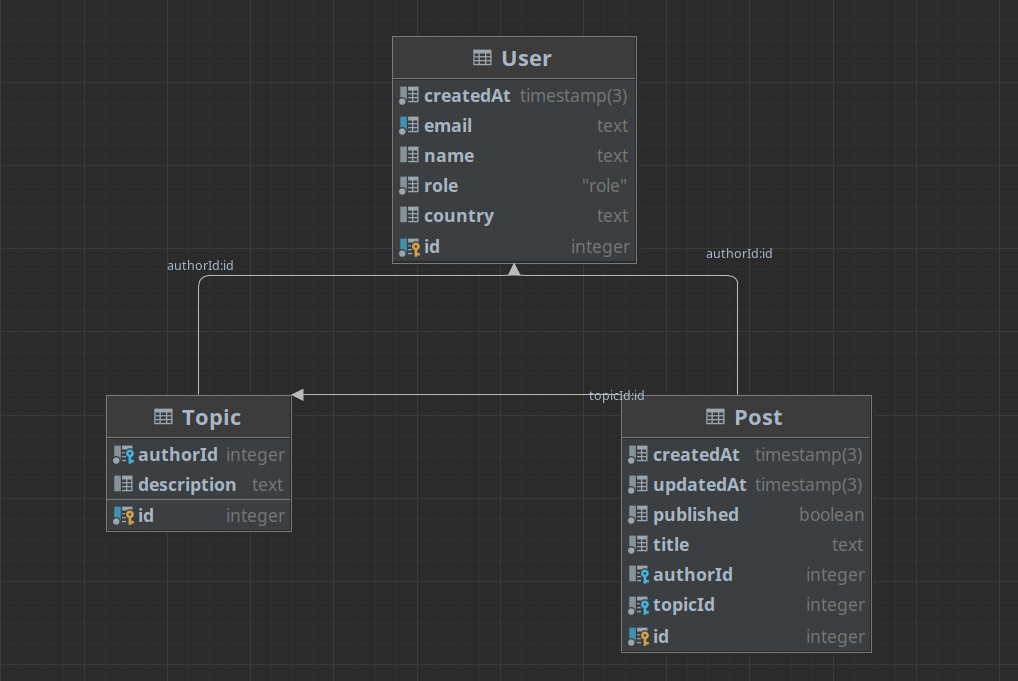
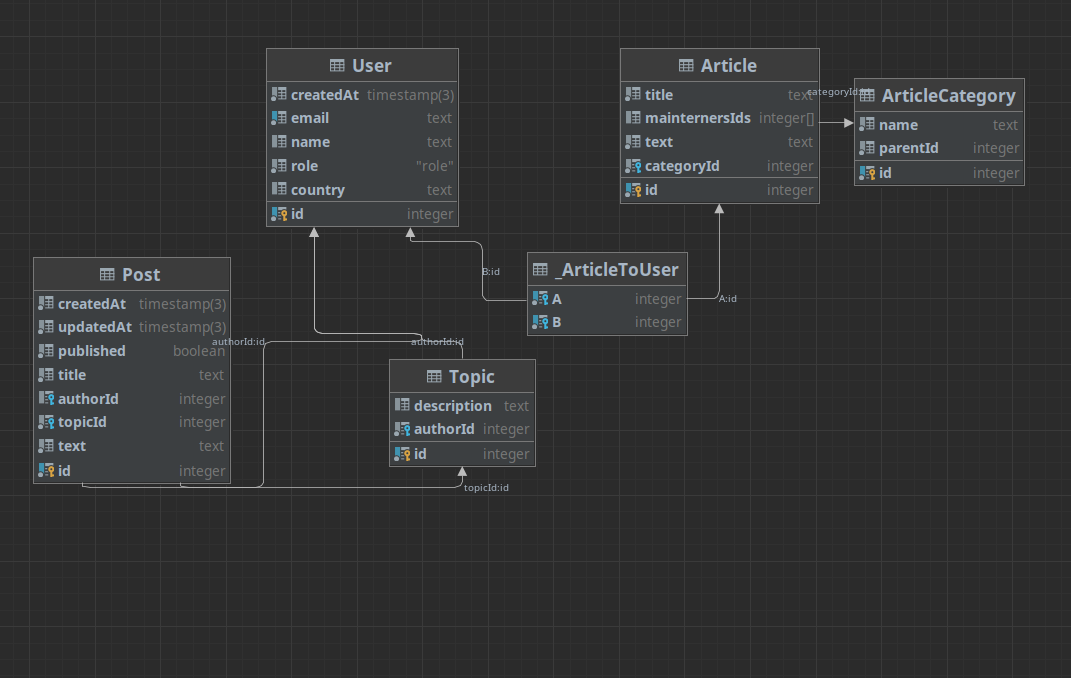
feat: article and article category added

diff --git a/README.md b/README.md
@@ -1,3 +1,9 @@
-# THIS IS README
+# Linux forum
+## О проекте
 
+Автор: Тихомиров Дмитрий M33021
+
+Форум + вики на Linux тематику
+
+## Схема базы данных
 ![](./docs/database_schema.png)
